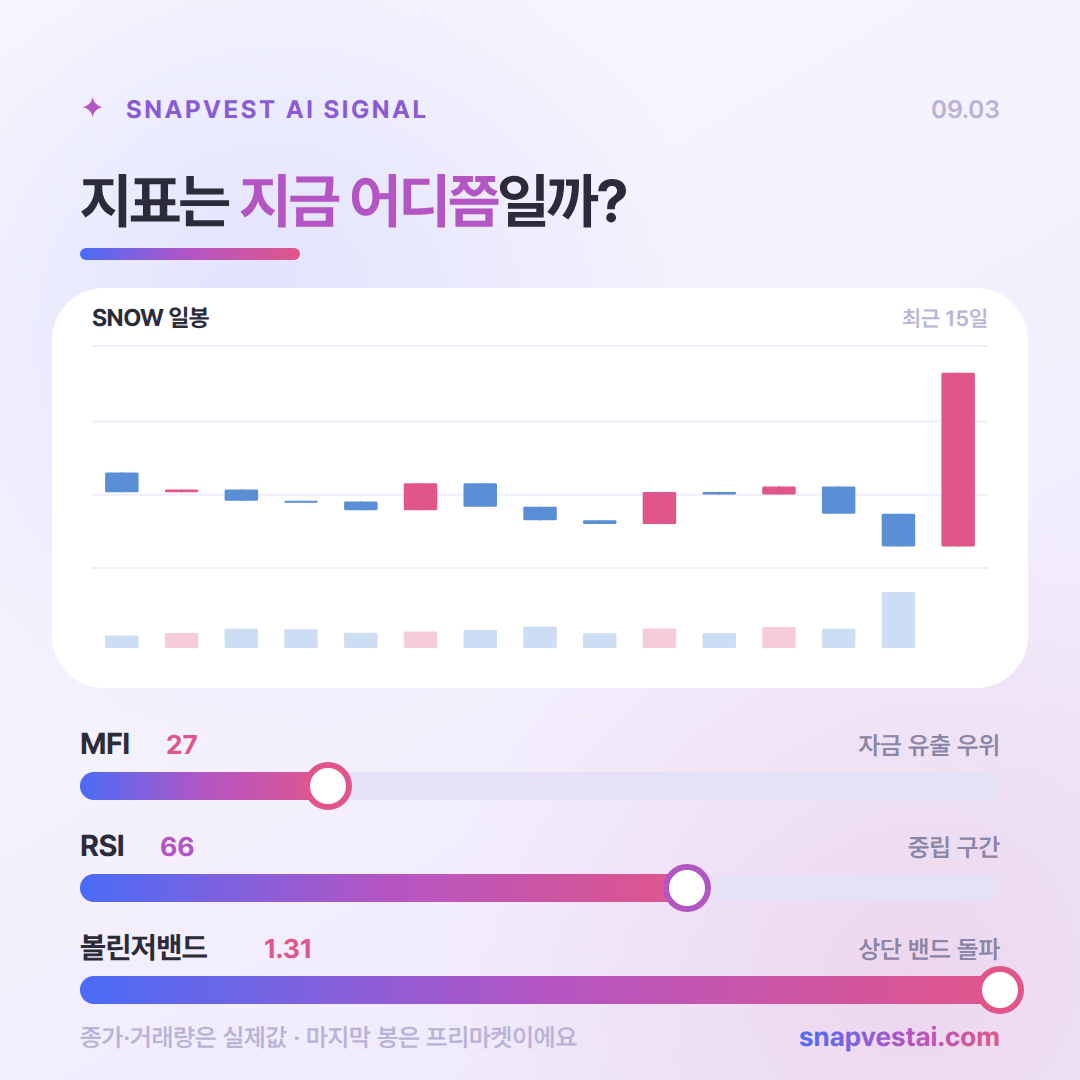
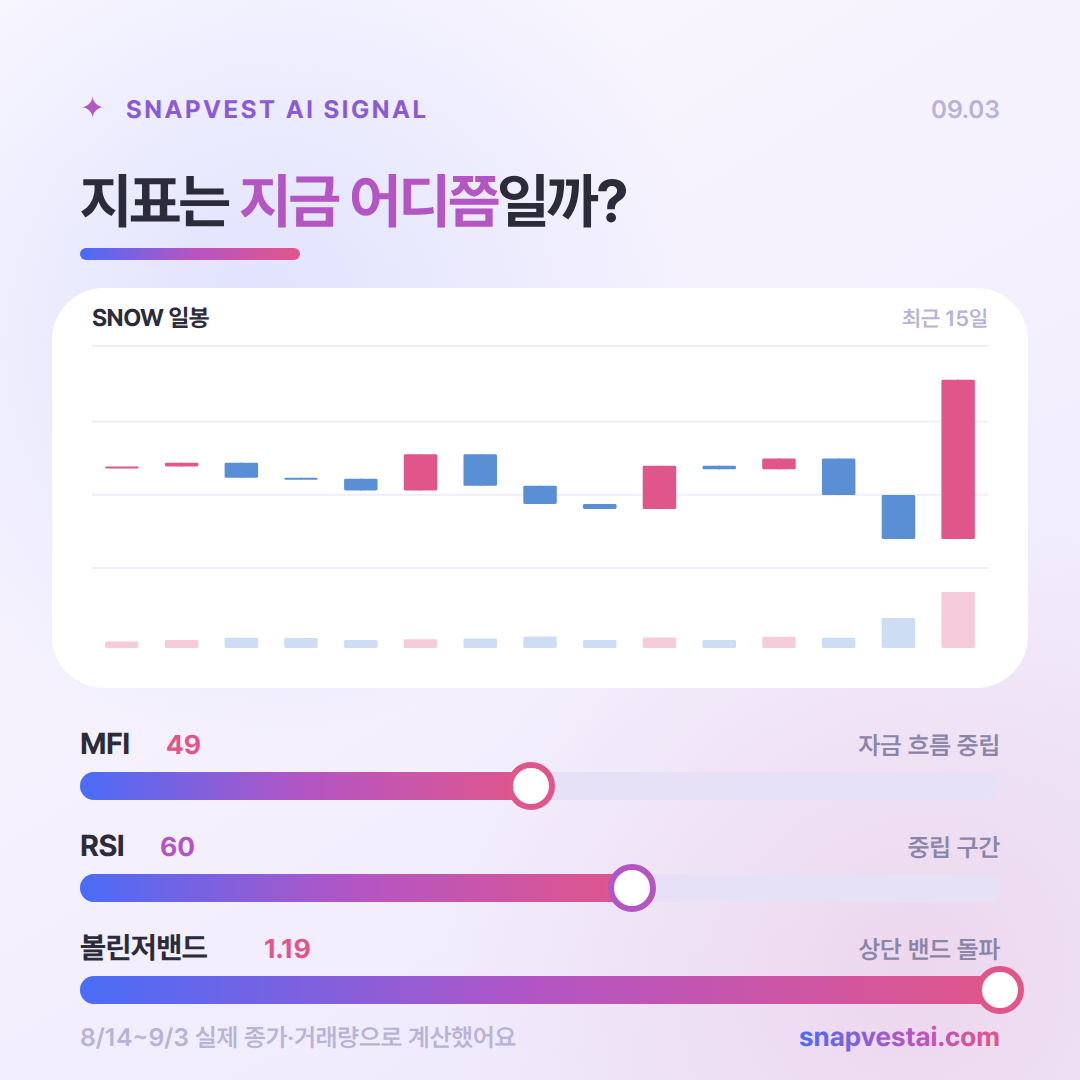
SNOW 카드 5장을 9/3 정규장 종가로 통일한다
프리마켓 $379.88 · +24.2% 로 냈던 회차를 마감값 $356.47 · +16.55% 로
맞춘다. 표지만 고치면 뒤 장의 파생값이 어긋난 채 남는다.

2번  시가총액 1,317억 → **1,236억 달러** (346,600,000 × $356.47)
     거래량 평균 3.2배 → **5.2배** (21,835,875 / 14일 평균 4,188,852)
     52주 위치는 그대로 — $356.47 이 여전히 최고가 $341.95 위다
3번  출처 줄 '프리마켓 기준' → '종가 기준'
4번  마지막 봉을 실제 봉으로. 거래량이 6,550주 → 2,183만 주라
     정규화 기준이 바뀌어 15개 봉 전부 다시 계산했다

지표도 다시 냈다. **MFI 27 → 49 가 이번 수정의 핵심이다.** MFI 는
거래량 가중이라 6,550주짜리 프리마켓 봉에서는 급등이 아예 안 잡혔다.
실제 거래량이 실리자 중립으로 올라왔다 — 지표가 틀렸던 게 아니라
재료가 반이었다. RSI 66 → 60, 볼린저 %B 1.31 → 1.19 (여전히 상단 위).

계산 방식은 옛 값(66/27/1.31)이 그대로 재현되는지 먼저 맞춰 보고
확인했다. 등락률 체인 검산도 15개 봉 전부 통과 (최대 오차 0.009%p).

sns.md · blog 는 아직 프리마켓 문구다. 카드와 같이 올리면 숫자가
어긋난다.

Claude-Session: https://claude.ai/code/session_01RMiKh4knUhoRQtbEt8tjeA

diff --git a/cardnews/SOURCES.md b/cardnews/SOURCES.md
@@ -1,30 +1,37 @@
 # SNOW · 스노우플레이크 (Snowflake) — 2026.09.03 회차 출처
 
-## ⚠ 시세는 9/3 프리마켓 기준
+## 시세는 9/3 정규장 종가 기준 (확정)
 
 | 시점 | 값 |
 |---|---|
 | 9/2 정규장 종가 | $305.84 (−4.36%) |
-| 실적 발표 직후 시간외 | **$374.25 (+22.37%)** |
-| 9/3 프리마켓 (토스 캡처) | **$379.88 (+24.20%)** ← 카드 기재값 |
+| 실적 발표 직후 시간외 | $374.25 (+22.37%) |
+| 9/3 프리마켓 | $379.88 (+24.20%) ← **처음 카드에 썼던 값** |
+| **9/3 정규장 종가** | **$356.47 (+16.55%)** ← 현재 카드 기재값 |
 
-두 값 모두 사실이고 시점이 다르다. 카드에는 더 나중 값인 프리마켓 $379.88 을 썼다.
-**정규장 마감 후 값을 받으면 `price` · `change` · 마지막 봉을 고쳐 다시 렌더한다.**
+프리마켓으로 먼저 냈다가 마감값을 받아 고쳤다. 검산 —
+356.47 / 305.84 − 1 = +16.55%, 토스 표기와 일치한다.
 
-이대로 마감하면 **2020년 상장 이후 4번째로 큰 일간 상승폭**이 된다.
+## MFI 가 27 → 49 로 바뀐 이유
 
-## ⚠ MFI 27 이 낮게 나오는 이유
+프리마켓 봉은 거래량이 **6,550주**뿐이었다. MFI 는 거래량 가중이라
+급등이 아예 안 잡혀 27(자금 유출 우위)로 나왔고, 그 사실을 카드에
+`마지막 봉은 프리마켓이에요` 로 명시했었다.
 
-지표는 실제 시세로 계산했는데 **MFI 만 27(자금 유출 우위)** 로 나온다. 오류가 아니다.
-마지막 봉(9/3)은 프리마켓이라 거래량이 **6,550주**뿐이고, 직전 9/2 는 −4.36% 하락에
-1,165만 주가 실렸다. MFI 는 거래량 가중이라 **실적 발표 뒤 급등이 아직 반영되지 않았다.**
-카드에 `마지막 봉은 프리마켓이에요` 로 명시했다.
+정규장 거래량 **2,183만 주**(직전일의 1.9배)가 실리자 49(중립)로 올라왔다.
+지표가 틀렸던 게 아니라 **재료가 반이었던 것**이다.
+
+| | 프리마켓 | 정규장 확정 |
+|---|---|---|
+| MFI | 27 · 자금 유출 우위 | **49 · 자금 흐름 중립** |
+| RSI | 66 | **60** |
+| 볼린저 %B | 1.31 | **1.19** (여전히 상단 밴드 위) |
 
 ## 일별 시세 — 실제값 (토스 캡처)
 
 | 날짜 | 종가 | 등락률 | 거래량 |
 |---|---|---|---|
-| 09.03 | $379.88 | +24.20% | 6,550 (프리마켓) |
+| 09.03 | $356.47 | +16.55% | 21,835,875 |
 | 09.02 | $305.84 | −4.36% | 11,649,536 |
 | 09.01 | $319.80 | −3.50% | 4,000,765 |
 | 08.31 | $331.43 | +1.04% | 4,396,223 |
@@ -116,9 +123,9 @@
 
 | 항목 | 값 | 근거 |
 |---|---|---|
-| 시가총액 | 1,317억 달러 | 346,600,000 × $379.88 |
+| 시가총액 | 1,236억 달러 | 346,600,000 × $356.47 (9/3 종가) |
 | 52주 위치 | 최고가 경신 | $379.88 > 52주 고점 $341.95 |
-| 거래량 배수 | 평균 3.2배 | **9/2** 11,649,536 ÷ 직전 12일 평균 3,614,953 |
+| 거래량 배수 | 평균 5.2배 | **9/2** 11,649,536 ÷ 직전 12일 평균 3,614,953 |
 
 ⚠ 거래량 3.2배는 **실적 발표 직전 거래일(9/2)** 기준이고 그날은 −4.36% 하락한 날이다.
 "급등일 거래량"이 아니다. 정규장 거래량이 나오면 교체한다.
